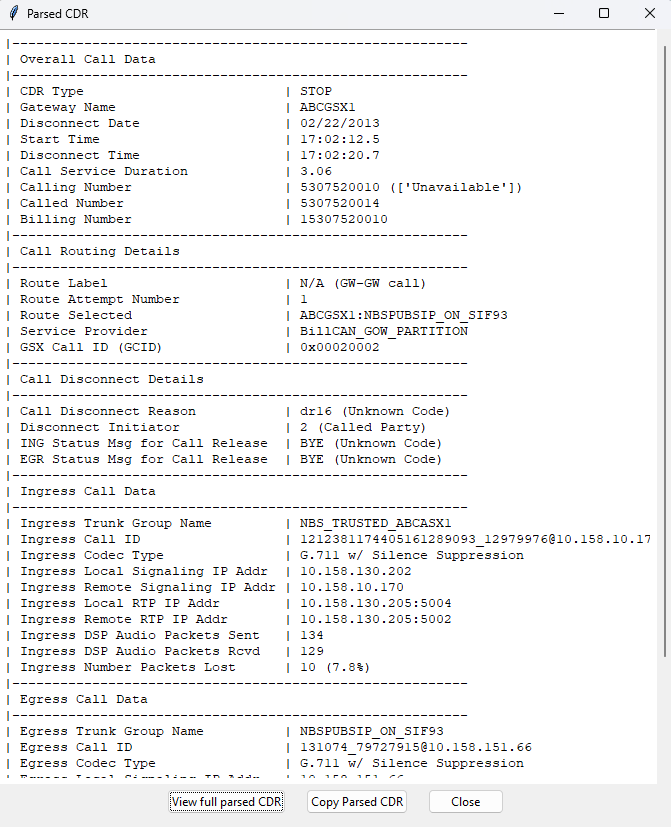
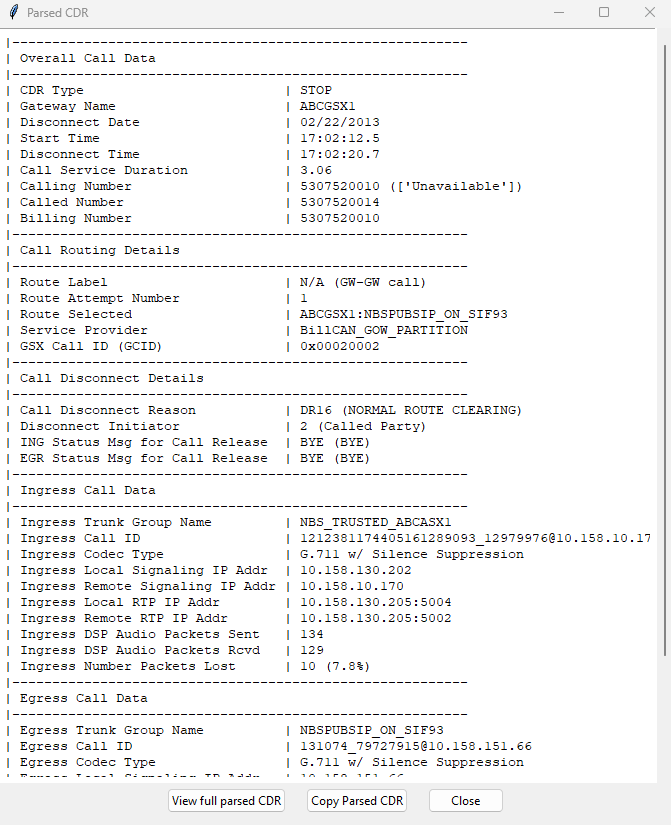
Updated ING/EGR Status message for BYE and screenshot

diff --git a/src/ribbon_cdr_parser/cdr_field_mappings.py b/src/ribbon_cdr_parser/cdr_field_mappings.py
@@ -1705,6 +1705,6 @@ sip_cause_code_mapping = {
 
 start_cdr_example = 'START,ABCGSX1,0x0001042B00000012,95396749,GMT-08:00-Pacific(US),02/22/2013,17:02:12.5,5,16,511,VoIP,IP-TO-IP,BillCAN_GOW_PARTITION,,,5307520014,,0,,0,,0,,,1,ABCGSX1:NBSPUBSIP_ON_SIF93,10.158.151.66,0.0.0.0,NBS_TRUSTED_ABCASX1,,10.158.130.205:5004/10.158.130.205:5002,,10.158.151.70:5004/10.158.140.133:2224,,,,0x00020003,,,,2,"SIP,1212381174405161289093_12979976@10.158.10.170,%22Unavailable%22;tag=gK001a110b,;tag=gK02d1465e,0,,,,sip:+15307520014@10.158.130.202:5060;dtg=NBSPUBSIP_ON_SIF93;reg-info=102,,,,sip:Unavailable@10.158.10.170:5620,sip:+15307520014@10.158.130.202:5060,,,,,,,0,0,,0,0,,,,,,,,1,0,0,0,,,,",12,12,0,1,,,0x0a,15307520014,1,1,,NBSPUBSIP_ON_SIF93,"SIP,131074_79727915@10.158.151.66,%22Unavailable%22;tag=gK0251473f,;tag=7D7842DB-2113CB70,0,,,,sip:+15307520014@10.158.140.133:5060;methods=INVITE; ACK; BYE; CANCEL; OPTIONS; INFO; MESSAGE; SUBSCRIBE; NOTIFY;PRACK;UPDATE; REFER;bgid=16824600;bgt=public,,,,sip:Unavailable@10.158.151.66:5060,sip:+15307520014@10.158.140.133,,,,,,,1,1,10.158.140.133,0,0,,,,,,,,1,0,0,0,,,,",,110,,,1,1,,,2,0x00020002,0,,,,,,0,,,,1,,,,,,,6,,,,"Unavailable",2,1,1,1,16824600,,7,,,1,7,1,,,10.158.130.202,10.158.10.170,2,16,8,,,,,,16824600,,,3,0,38,TANDEM,,,,,,,13,1,,,,,,,,,,,,,,,,0,,,,,,,,0,,,"96,84,2,182",0,,,,,,,,,,,,,0,0,0,0,0,0'
 
-stop_cdr_example = 'STOP,ABCGSX1,0x0001042B00000012,95396749,GMT-08:00-Pacific(US),02/22/2013,17:02:12.5,5,16,511,02/22/2013,17:02:20.7,6,306,16,VoIP,IP-TO-IP,BillCAN_GOW_PARTITION,,5307520010,5307520014,,0,,0,,0,15307520010,,1,ABCGSX1:NBSPUBSIP_ON_SIF93,10.158.151.66,0.0.0.0,NBS_TRUSTED_ABCASX1,,10.158.130.205:5004/10.158.130.205:5002,,10.158.151.70:5004/10.158.140.133:2224,21440,134,20640,129,,,,0x00020003,,,,,2,"SIP,1212381174405161289093_12979976@10.158.10.170,%22Unavailable%22;tag=gK001a110b,;tag=gK02d1465e,0,,,,sip:+15307520014@10.158.130.202:5060;dtg=NBSPUBSIP_ON_SIF93;reg-info=102,,,,sip:Unavailable@10.158.10.170:5620,sip:+15307520014@10.158.130.202:5060,,,,1,BYE,,0,0,,0,0,,,,,,,,1,0,0,0,,,,",12,12,0,1,,,0x0a,15307520014,1,1,,2,10,0,,NBSPUBSIP_ON_SIF93,"SIP,131074_79727915@10.158.151.66,%22Unavailable%22;tag=gK0251473f,;tag=7D7842DB-2113CB70,0,,,,sip:+15307520014@10.158.140.133:5060;methods=INVITE;ACK; BYE; CANCEL; OPTIONS; INFO; MESSAGE; SUBSCRIBE; NOTIFY; PRACK; UPDATE; REFER;bgid=16824600;bgt=public,,,,sip:Unavailable@10.158.151.66:5060,sip:+15307520014@10.158.140.133,,,,,BYE,,1,1,10.158.140.133,0,0,,,,,,,,1,0,0,0,,,,",,110,,,1,1,,,2,P:2:1,P:2:1,10,0x00020002,,,0,,,,,,0,,,,1,,,,,,,6,,,,"Unavailable",2,1,1,1,16824600,,7,,,1,7,0,306,1,,,,,10.158.130.202,10.158.10.170,4,16,8,,,,,,16824600,,,3,0,38,TANDEM,,,10,20640,129,21440,134,0,0,,16,64,,,,,,,13,1,,,,,,,,,,,,,,,,,,,,,0,9,,,,,,,,,,,,,,,"96,84,2,182",0,,,,,,,,,,,,,,,,,,,0,0,0,0,0,0'
+stop_cdr_example = 'STOP,ABCGSX1,0x0001042B00000012,95396749,GMT-08:00-Pacific(US),02/22/2013,17:02:12.5,5,16,511,02/22/2013,17:02:20.7,6,306,16,VoIP,IP-TO-IP,BillCAN_GOW_PARTITION,,5307520010,5307520014,,0,,0,,0,5307520010,,1,ABCGSX1:NBSPUBSIP_ON_SIF93,10.158.151.66,0.0.0.0,NBS_TRUSTED_ABCASX1,,10.158.130.205:5004/10.158.130.205:5002,,10.158.151.70:5004/10.158.140.133:2224,21440,134,20640,129,,,,0x00020003,,,,,2,"SIP,1212381174405161289093_12979976@10.158.10.170,%22Unavailable%22;tag=gK001a110b,;tag=gK02d1465e,0,,,,sip:+15307520014@10.158.130.202:5060;dtg=NBSPUBSIP_ON_SIF93;reg-info=102,,,,sip:Unavailable@10.158.10.170:5620,sip:+15307520014@10.158.130.202:5060,,,,1,BYE,,0,0,,0,0,,,,,,,,1,0,0,0,,,,",12,12,0,1,,,0x0a,15307520014,1,1,,2,10,0,,NBSPUBSIP_ON_SIF93,"SIP,131074_79727915@10.158.151.66,%22Unavailable%22;tag=gK0251473f,;tag=7D7842DB-2113CB70,0,,,,sip:+15307520014@10.158.140.133:5060;methods=INVITE;ACK; BYE; CANCEL; OPTIONS; INFO; MESSAGE; SUBSCRIBE; NOTIFY; PRACK; UPDATE; REFER;bgid=16824600;bgt=public,,,,sip:Unavailable@10.158.151.66:5060,sip:+15307520014@10.158.140.133,,,,,BYE,,1,1,10.158.140.133,0,0,,,,,,,,1,0,0,0,,,,",,110,,,1,1,,,2,P:2:1,P:2:1,10,0x00020002,,,0,,,,,,0,,,,1,,,,,,,6,,,,"Unavailable",2,1,1,1,16824600,,7,,,1,7,0,306,1,,,,,10.158.130.202,10.158.10.170,4,16,8,,,,,,16824600,,,3,0,38,TANDEM,,,10,20640,129,21440,134,0,0,,16,64,,,,,,,13,1,,,,,,,,,,,,,,,,,,,,,0,9,,,,,,,,,,,,,,,"96,84,2,182",0,,,,,,,,,,,,,,,,,,,0,0,0,0,0,0'
 
-attempt_cdr_example = 'ATTEMPT,ABCGSX1,0x0001042B00000010,95396662,GMT-08:00-Pacific(US),02/22/2013,17:02:11.6,13,0,17:02:11.8,6,21,VoIP,IP-TO-IP,BillCAN_GOW_PARTITION,,15307520010,5307520014,,0,,0,,0,15307520010,ABC_TOASX,1,ABCGSX1:NBS_TRUSTED_ABCASX1,10.158.130.202,10.158.10.170,NBSPUBSIP_ON_SIF93,,10.158.151.70:5000/127.0.0.0:5004,,10.158.130.205:5000/:0,,,,0x00000001,,,,2,2,"SIP,f86fbb68-b4d047e1-a24212c6@10.158.140.130,%22+15307520010%22;tag=59D07E6E-2A6FE7AF,;tag=gK02d14240,0,,,,sip:5307520014@10.158.151.66;user=phone,,,,sip:+15307520010@10.158.140.130,,,,,,401,,1,1,10.158.140.130,0,0,,,,,,,,1,0,0,0,,,,",12,12,0,1,,,0x0a,5307520014,1,1,,2,NBS_TRUSTED_ABCASX1,"SIP,131072_111295356@10.158.130.202,%22+15307520010%22;tag=gK025143e1,,0,,,,sip:5307520014@10.158.10.170:5620;user=phone,,,,sip:+15307520010@10.158.130.202:5060;reg-info=402,,,,,,401,,0,0,,0,0,,,,,,,,1,0,0,0,,,,",15307520010,110,,,1,1,,,2,,,,0x00020000,0,,,0,,,,,,0,,,,1,,,,,,,6,,,,"+15307520010",2,1,1,1,1,,17,02/22/2013,2,2,,7,1,401,,,,10.158.151.66,10.158.140.130,1,16,8,,,,,,,,,3,0,81,TANDEM,,,,,,,,13,1,,,,,,1,,,,,,,,,,,,,0,9,,,,,,,,,,,,"184,52,5,241",0,,,,,,,,,,,,,'
+attempt_cdr_example = 'ATTEMPT,ABCGSX1,0x0001042B00000010,95396662,GMT-08:00-Pacific(US),02/22/2013,17:02:11.6,13,0,17:02:11.8,6,21,VoIP,IP-TO-IP,BillCAN_GOW_PARTITION,,5307520010,5307520014,,0,,0,,0,5307520010,ABC_TOASX,1,ABCGSX1:NBS_TRUSTED_ABCASX1,10.158.130.202,10.158.10.170,NBSPUBSIP_ON_SIF93,,10.158.151.70:5000/127.0.0.0:5004,,10.158.130.205:5000/:0,,,,0x00000001,,,,2,2,"SIP,f86fbb68-b4d047e1-a24212c6@10.158.140.130,%22+5307520010%22;tag=59D07E6E-2A6FE7AF,;tag=gK02d14240,0,,,,sip:5307520014@10.158.151.66;user=phone,,,,sip:+5307520010@10.158.140.130,,,,,,401,,1,1,10.158.140.130,0,0,,,,,,,,1,0,0,0,,,,",12,12,0,1,,,0x0a,5307520014,1,1,,2,NBS_TRUSTED_ABCASX1,"SIP,131072_111295356@10.158.130.202,%22+5307520010%22;tag=gK025143e1,,0,,,,sip:5307520014@10.158.10.170:5620;user=phone,,,,sip:+5307520010@10.158.130.202:5060;reg-info=402,,,,,,401,,0,0,,0,0,,,,,,,,1,0,0,0,,,,",5307520010,110,,,1,1,,,2,,,,0x00020000,0,,,0,,,,,,0,,,,1,,,,,,,6,,,,"+5307520010",2,1,1,1,1,,17,02/22/2013,2,2,,7,1,401,,,,10.158.151.66,10.158.140.130,1,16,8,,,,,,,,,3,0,81,TANDEM,,,,,,,,13,1,,,,,,1,,,,,,,,,,,,,0,9,,,,,,,,,,,,"184,52,5,241",0,,,,,,,,,,,,,'

diff --git a/src/ribbon_cdr_parser/Ribbon_SBC_CDR_parser.py b/src/ribbon_cdr_parser/Ribbon_SBC_CDR_parser.py
@@ -109,7 +109,11 @@ def parse_prot_data_side(prot_data: list, side_prefix: str, contact_idx: int) ->
 
     # Build sip_<code> key and friendly text
     sip_key = f"sip_{status_code}" if status_code else "sip_UNKNOWN"
-    sip_name = sip_cause_code_mapping.get(sip_key, "Unknown Code")
+    
+    if sip_key != "sip_BYE":
+        sip_name = sip_cause_code_mapping.get(sip_key, "Unknown Code")
+    else:
+        sip_name = "BYE"
 
     # Display just the numeric part + friendly text
     code_display = status_code if status_code else "UNKNOWN"
@@ -183,7 +187,7 @@ def parse_cdr_to_dict(raw_cdr: str) -> dict:
 
         # Disconnect reason
         dr_code = safe_get(fields, 11)
-        disconnect_reason = f"dr{dr_code}" if dr_code else "drUNKNOWN"
+        disconnect_reason = f"DR{dr_code}" if dr_code else "drUNKNOWN"
         disconnect_name = cdr_disconnect_reason.get(disconnect_reason, "Unknown Code")
         parsed_data["disconnect_reason"] = f"{disconnect_reason} ({disconnect_name})"
 
@@ -279,7 +283,7 @@ def parse_cdr_to_dict(raw_cdr: str) -> dict:
 
         # Disconnect reason
         dr_code = safe_get(fields, 14)
-        disconnect_reason = f"dr{dr_code}" if dr_code else "drUNKNOWN"
+        disconnect_reason = f"DR{dr_code}" if dr_code else "drUNKNOWN"
         disconnect_name = cdr_disconnect_reason.get(disconnect_reason, "Unknown Code")
         parsed_data["disconnect_reason"] = f"{disconnect_reason} ({disconnect_name})"
 
